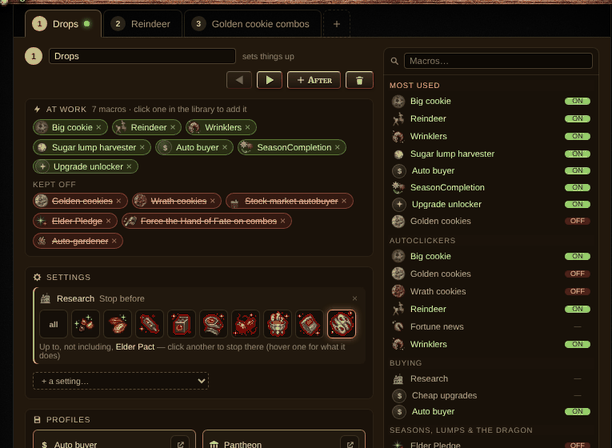
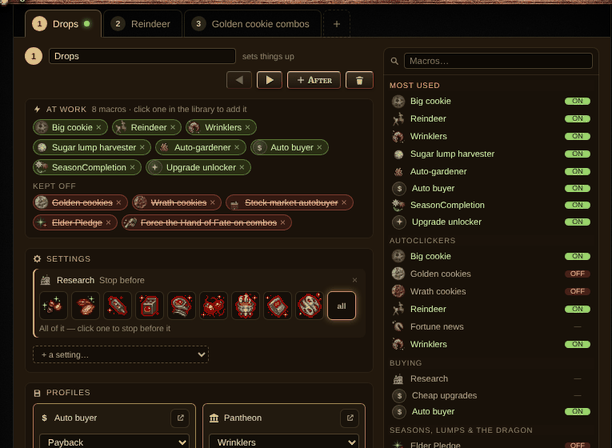
README: current Managers picture (#98)
The Managers picture shows Nunix late game as it is now: the Auto-gardener at work in Drops and Research going all the way.

Claude-Session: https://claude.ai/code/session_01ALSqfrVYPdvMWWjAoC9JVy

diff --git a/changes/readme-managers-picture.md b/changes/readme-managers-picture.md
@@ -1,0 +1,4 @@
+---
+bump: patch
+---
+- **README:** the Managers picture shows Nunix late game as it is now: the Auto-gardener at work in Drops and Research going all the way.
